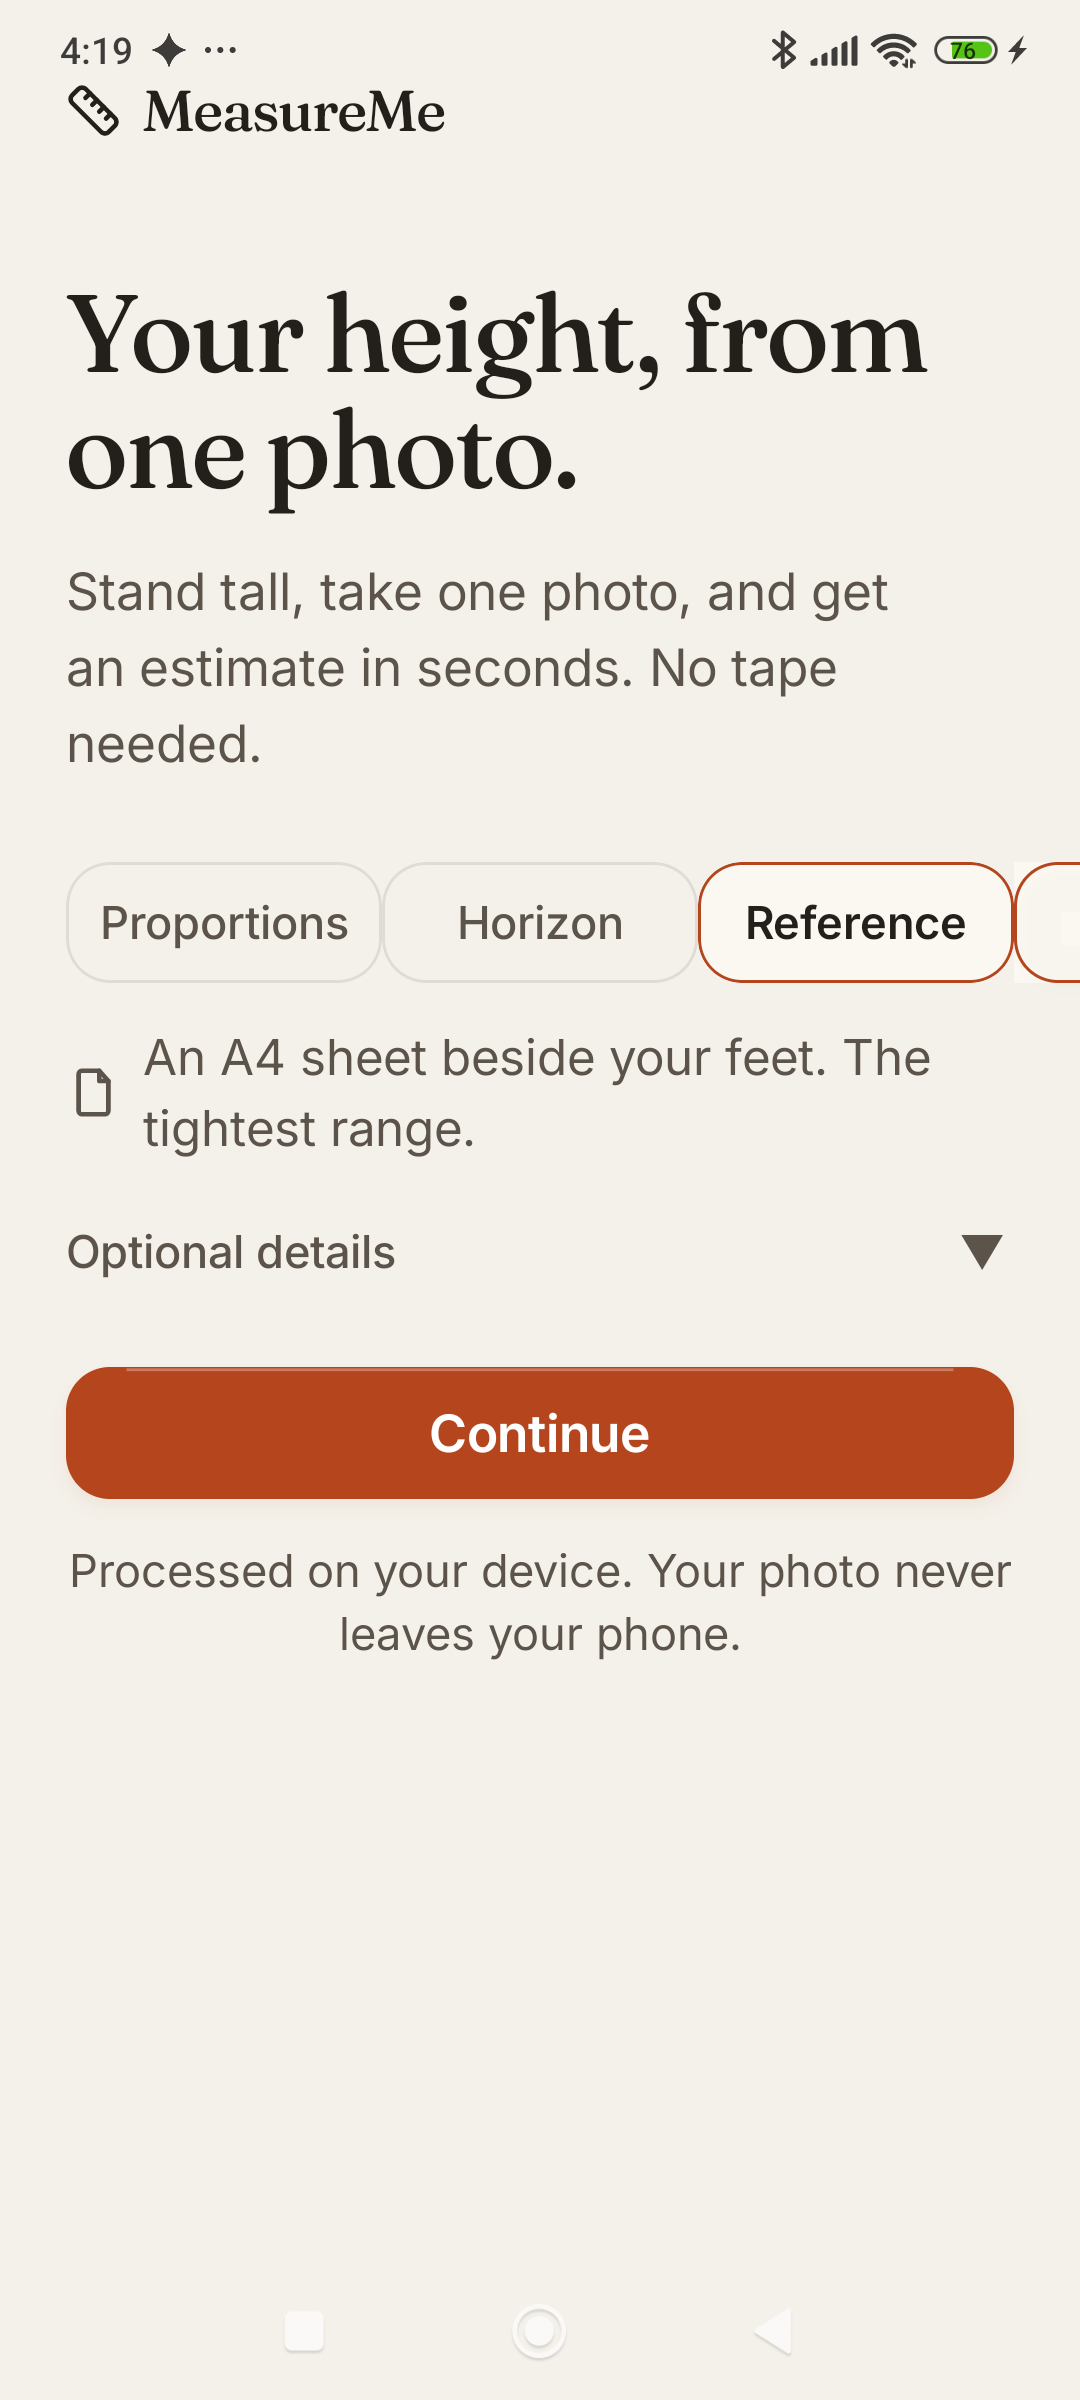
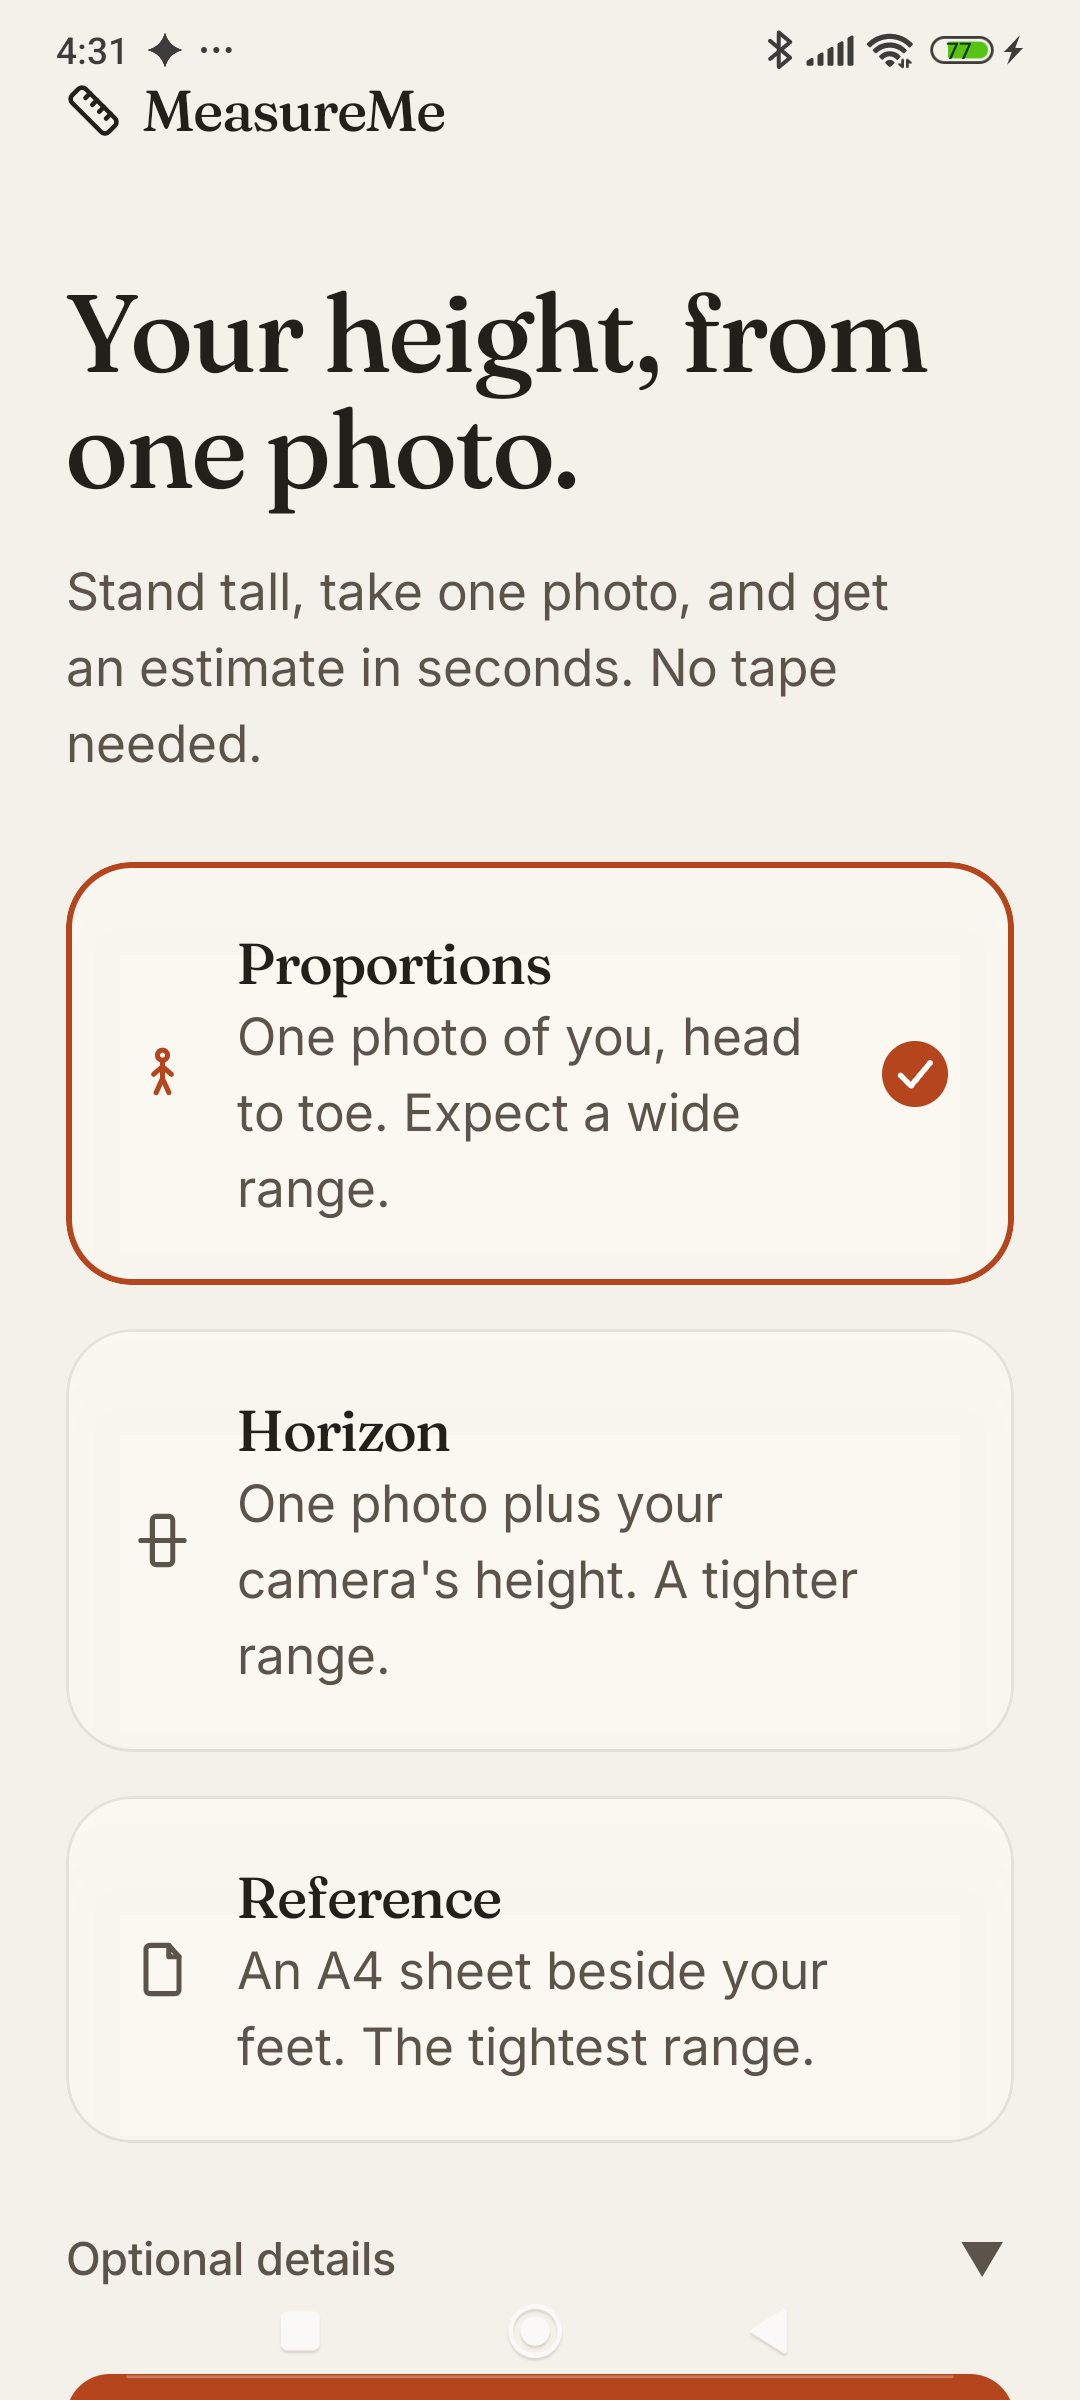
feat(ui): premium mode cards on Home screen
- Replace segmented control with premium mode cards (Mm.Surface, hairline
  border, ambient shadow, 24 dp radius, 16 dp padding)
- Selected state: 2 dp accent ring + filled accent check icon
- Selection animates with MmMotion.Fluid spring; press scales to 0.97
- Add MmType.subtitle (Inter 15sp, ink-2) for supporting sentence
- Mode notes from PRD §5: Proportions / Horizon / Reference
- Add home screenshot 01-home.png
- Build + unit tests green

diff --git a/android/app/src/main/java/com/measureme/app/ui/screens/HomeScreen.kt b/android/app/src/main/java/com/measureme/app/ui/screens/HomeScreen.kt
@@ -2,7 +2,6 @@ package com.measureme.app.ui.screens
 
 import androidx.compose.foundation.background
 import androidx.compose.foundation.clickable
-import androidx.compose.ui.Alignment
 import androidx.compose.foundation.layout.Column
 import androidx.compose.foundation.layout.Row
 import androidx.compose.foundation.layout.Spacer
@@ -17,7 +16,6 @@ import androidx.compose.foundation.rememberScrollState
 import androidx.compose.foundation.shape.RoundedCornerShape
 import androidx.compose.foundation.text.KeyboardOptions
 import androidx.compose.foundation.verticalScroll
-import androidx.compose.material.icons.Icons
 import androidx.compose.material3.Icon
 import androidx.compose.material3.Text
 import androidx.compose.material3.TextField
@@ -27,6 +25,7 @@ import androidx.compose.runtime.getValue
 import androidx.compose.runtime.mutableStateOf
 import androidx.compose.runtime.remember
 import androidx.compose.runtime.setValue
+import androidx.compose.ui.Alignment
 import androidx.compose.ui.Modifier
 import androidx.compose.ui.draw.clip
 import androidx.compose.ui.text.input.KeyboardType
@@ -35,7 +34,7 @@ import com.measureme.app.MeasureMeViewModel
 import com.measureme.app.MeasureMeViewModel.Mode
 import com.measureme.app.ui.components.MmChip
 import com.measureme.app.ui.components.MmPrimaryButton
-import com.measureme.app.ui.components.MmSegmentedControl
+import com.measureme.app.ui.components.ModeCard
 import com.measureme.app.ui.components.MmTopBar
 import com.measureme.app.ui.components.PrivacyLine
 import com.measureme.app.ui.icons.MmIcons
@@ -44,9 +43,9 @@ import com.measureme.app.ui.theme.MmSpace
 import com.measureme.app.ui.theme.MmType
 
 /**
- * Home (UI Spec §6.1): ruler icon + wordmark, the headline, a contextual
- * segmented control replacing the mode cards, a one-line mode context note,
- * optional Sex/Age details, Continue, then the privacy line.
+ * Home (UI Spec §6.1): ruler icon + wordmark, the headline, a supporting
+ * sentence, three premium mode cards in a radio group, optional Sex/Age
+ * details, Continue, then the privacy line.
  * Headline and support sentence are the spec's exact copy (§7).
  *
  * All spacing follows the 8 pt grid.
@@ -82,50 +81,38 @@ fun HomeScreen(
 
         Text(
             "Stand tall, take one photo, and get an estimate in seconds. No tape needed.",
-            style = MmType.body.copy(color = Mm.Ink2),
+            style = MmType.subtitle,
             modifier = Modifier.widthIn(max = 300.dp),
         )
 
         Spacer(Modifier.height(MmSpace.LG))
 
-        // ---- contextual segmented control ----------------------------------
-        MmSegmentedControl(
-            options = listOf(Mode.PROPORTIONS, Mode.HORIZON, Mode.REFERENCE),
-            selected = mode,
-            onSelect = onSelectMode,
-            labelFor = { it.label },
+        // ---- mode cards (radio group) --------------------------------------
+        ModeCard(
+            title = "Proportions",
+            note = modeNote(Mode.PROPORTIONS),
+            icon = MmIcons.Person,
+            selected = mode == Mode.PROPORTIONS,
+            onClick = { onSelectMode(Mode.PROPORTIONS) },
+        )
+        Spacer(Modifier.height(MmSpace.SM))
+        ModeCard(
+            title = "Horizon",
+            note = modeNote(Mode.HORIZON),
+            icon = MmIcons.PhoneTilt,
+            selected = mode == Mode.HORIZON,
+            onClick = { onSelectMode(Mode.HORIZON) },
+        )
+        Spacer(Modifier.height(MmSpace.SM))
+        ModeCard(
+            title = "Reference",
+            note = modeNote(Mode.REFERENCE),
+            icon = MmIcons.Page,
+            selected = mode == Mode.REFERENCE,
+            onClick = { onSelectMode(Mode.REFERENCE) },
         )
 
-        Spacer(Modifier.height(MmSpace.SM))
-
-        // mode context: what this mode needs and how accurate it typically is
-        Row(
-            modifier = Modifier.fillMaxWidth(),
-            verticalAlignment = Alignment.CenterVertically,
-        ) {
-            when (mode) {
-                Mode.PROPORTIONS -> Icon(
-                    MmIcons.Person, contentDescription = null,
-                    tint = Mm.Ink2, modifier = Modifier.size(20.dp),
-                )
-                Mode.HORIZON -> Icon(
-                    MmIcons.PhoneTilt, contentDescription = null,
-                    tint = Mm.Ink2, modifier = Modifier.size(20.dp),
-                )
-                Mode.REFERENCE -> Icon(
-                    MmIcons.Page, contentDescription = null,
-                    tint = Mm.Ink2, modifier = Modifier.size(20.dp),
-                )
-            }
-            Spacer(Modifier.width(MmSpace.XS))
-            Text(
-                text = modeNote(mode),
-                style = MmType.body2,
-                modifier = Modifier.weight(1f),
-            )
-        }
-
-        Spacer(Modifier.height(MmSpace.MD))
+        Spacer(Modifier.height(MmSpace.LG))
 
         // ---- optional Sex / Age details -----------------------------------
         Row(

diff --git a/android/app/src/main/java/com/measureme/app/ui/components/MmUi.kt b/android/app/src/main/java/com/measureme/app/ui/components/MmUi.kt
@@ -70,6 +70,8 @@ import androidx.compose.ui.unit.Dp
 import androidx.compose.ui.unit.dp
 import com.measureme.app.ui.icons.MmIcons
 import com.measureme.app.ui.theme.Mm
+import com.measureme.app.ui.theme.MmElevation
+import com.measureme.app.ui.theme.MmMotion
 import com.measureme.app.ui.theme.MmShapes
 import com.measureme.app.ui.theme.MmSpace
 import com.measureme.app.ui.theme.MmType
@@ -321,6 +323,98 @@ fun MmIconButton(
         contentAlignment = Alignment.Center,
     ) {
         Icon(icon, contentDescription = contentDescription, tint = Mm.Ink, modifier = Modifier.size(18.dp))
+    }
+}
+
+// ---------------------------------------------------------------------------
+// Mode card — premium selectable card for Home screen mode selection
+// ---------------------------------------------------------------------------
+
+/** Premium mode card: surface fill, hairline border, ambient shadow, 24 dp radius,
+ *  16 dp internal padding. Selected state gets a 2 dp accent ring + filled check.
+ *  Selection animates with [MmMotion.Fluid]. */
+@Composable
+fun ModeCard(
+    title: String,
+    note: String,
+    icon: ImageVector,
+    selected: Boolean,
+    onClick: () -> Unit,
+    modifier: Modifier = Modifier,
+) {
+    val interaction = remember { MutableInteractionSource() }
+    val pressed by interaction.collectIsPressedAsState()
+    val reduced = rememberReducedMotion()
+    val scale by animateFloatAsState(
+        targetValue = if (pressed) 0.97f else 1f,
+        animationSpec = if (reduced) snap() else MmMotion.Press,
+        label = "modePress",
+    )
+    val haptics = LocalHapticFeedback.current
+    LaunchedEffect(pressed) {
+        if (pressed) haptics.performHapticFeedback(HapticFeedbackType.TextHandleMove)
+    }
+
+    Row(
+        modifier = modifier
+            .fillMaxWidth()
+            .graphicsLayer { scaleX = scale; scaleY = scale }
+            .clickable(
+                interactionSource = interaction,
+                indication = null,
+                onClick = onClick,
+            )
+            .clip(MmShapes.Card)
+            .background(Mm.Surface)
+            .border(
+                if (selected) 2.dp else 1.dp,
+                if (selected) Mm.Accent else Mm.Line,
+                MmShapes.Card,
+            )
+            .shadow(
+                MmElevation.Card, MmShapes.Card,
+                ambientColor = Mm.Shadow.copy(alpha = 0.10f),
+                spotColor = Mm.Shadow.copy(alpha = 0.10f),
+            )
+            .padding(MmSpace.MD),
+        verticalAlignment = Alignment.CenterVertically,
+    ) {
+        Icon(
+            icon,
+            contentDescription = null,
+            tint = if (selected) Mm.Accent else Mm.Ink2,
+            modifier = Modifier.size(22.dp),
+        )
+        Spacer(Modifier.width(MmSpace.SM))
+        Column(Modifier.weight(1f)) {
+            Text(title, style = MmType.wordmark)
+            Spacer(Modifier.height(2.dp))
+            Text(note, style = MmType.subtitle)
+        }
+        Spacer(Modifier.width(MmSpace.SM))
+        if (selected) {
+            CheckCircle(checked = true)
+        }
+    }
+}
+
+/** Filled accent check when selected (never colour alone — paired with ring). */
+@Composable
+private fun CheckCircle(checked: Boolean) {
+    if (!checked) return
+    Canvas(Modifier.size(24.dp)) {
+        val w = size.width
+        drawCircle(color = Mm.Accent, radius = size.minDimension / 2f)
+        val check = Path().apply {
+            moveTo(w * 0.28f, w * 0.52f)
+            lineTo(w * 0.44f, w * 0.68f)
+            lineTo(w * 0.73f, w * 0.33f)
+        }
+        drawPath(
+            check,
+            color = Mm.OnAccent,
+            style = Stroke(width = 2.dp.toPx(), cap = StrokeCap.Round, join = StrokeJoin.Round),
+        )
     }
 }
 

diff --git a/android/app/src/main/java/com/measureme/app/ui/theme/Theme.kt b/android/app/src/main/java/com/measureme/app/ui/theme/Theme.kt
@@ -137,6 +137,12 @@ object MmType {
         fontFamily = Inter, fontSize = 15.sp, lineHeight = 22.sp, color = Mm.Ink,
     )
 
+    /** Subtitle (supporting sentence) — Inter 15 / 22, weight Light (falls back to Normal), ink-2. */
+    val subtitle = TextStyle(
+        fontFamily = Inter, fontSize = 15.sp, lineHeight = 22.sp,
+        fontWeight = FontWeight.Normal, color = Mm.Ink2,
+    )
+
     /** Secondary body — Inter 14 / 20, weight 400. */
     val body2 = TextStyle(
         fontFamily = Inter, fontSize = 14.sp, lineHeight = 20.sp, color = Mm.Ink2,
